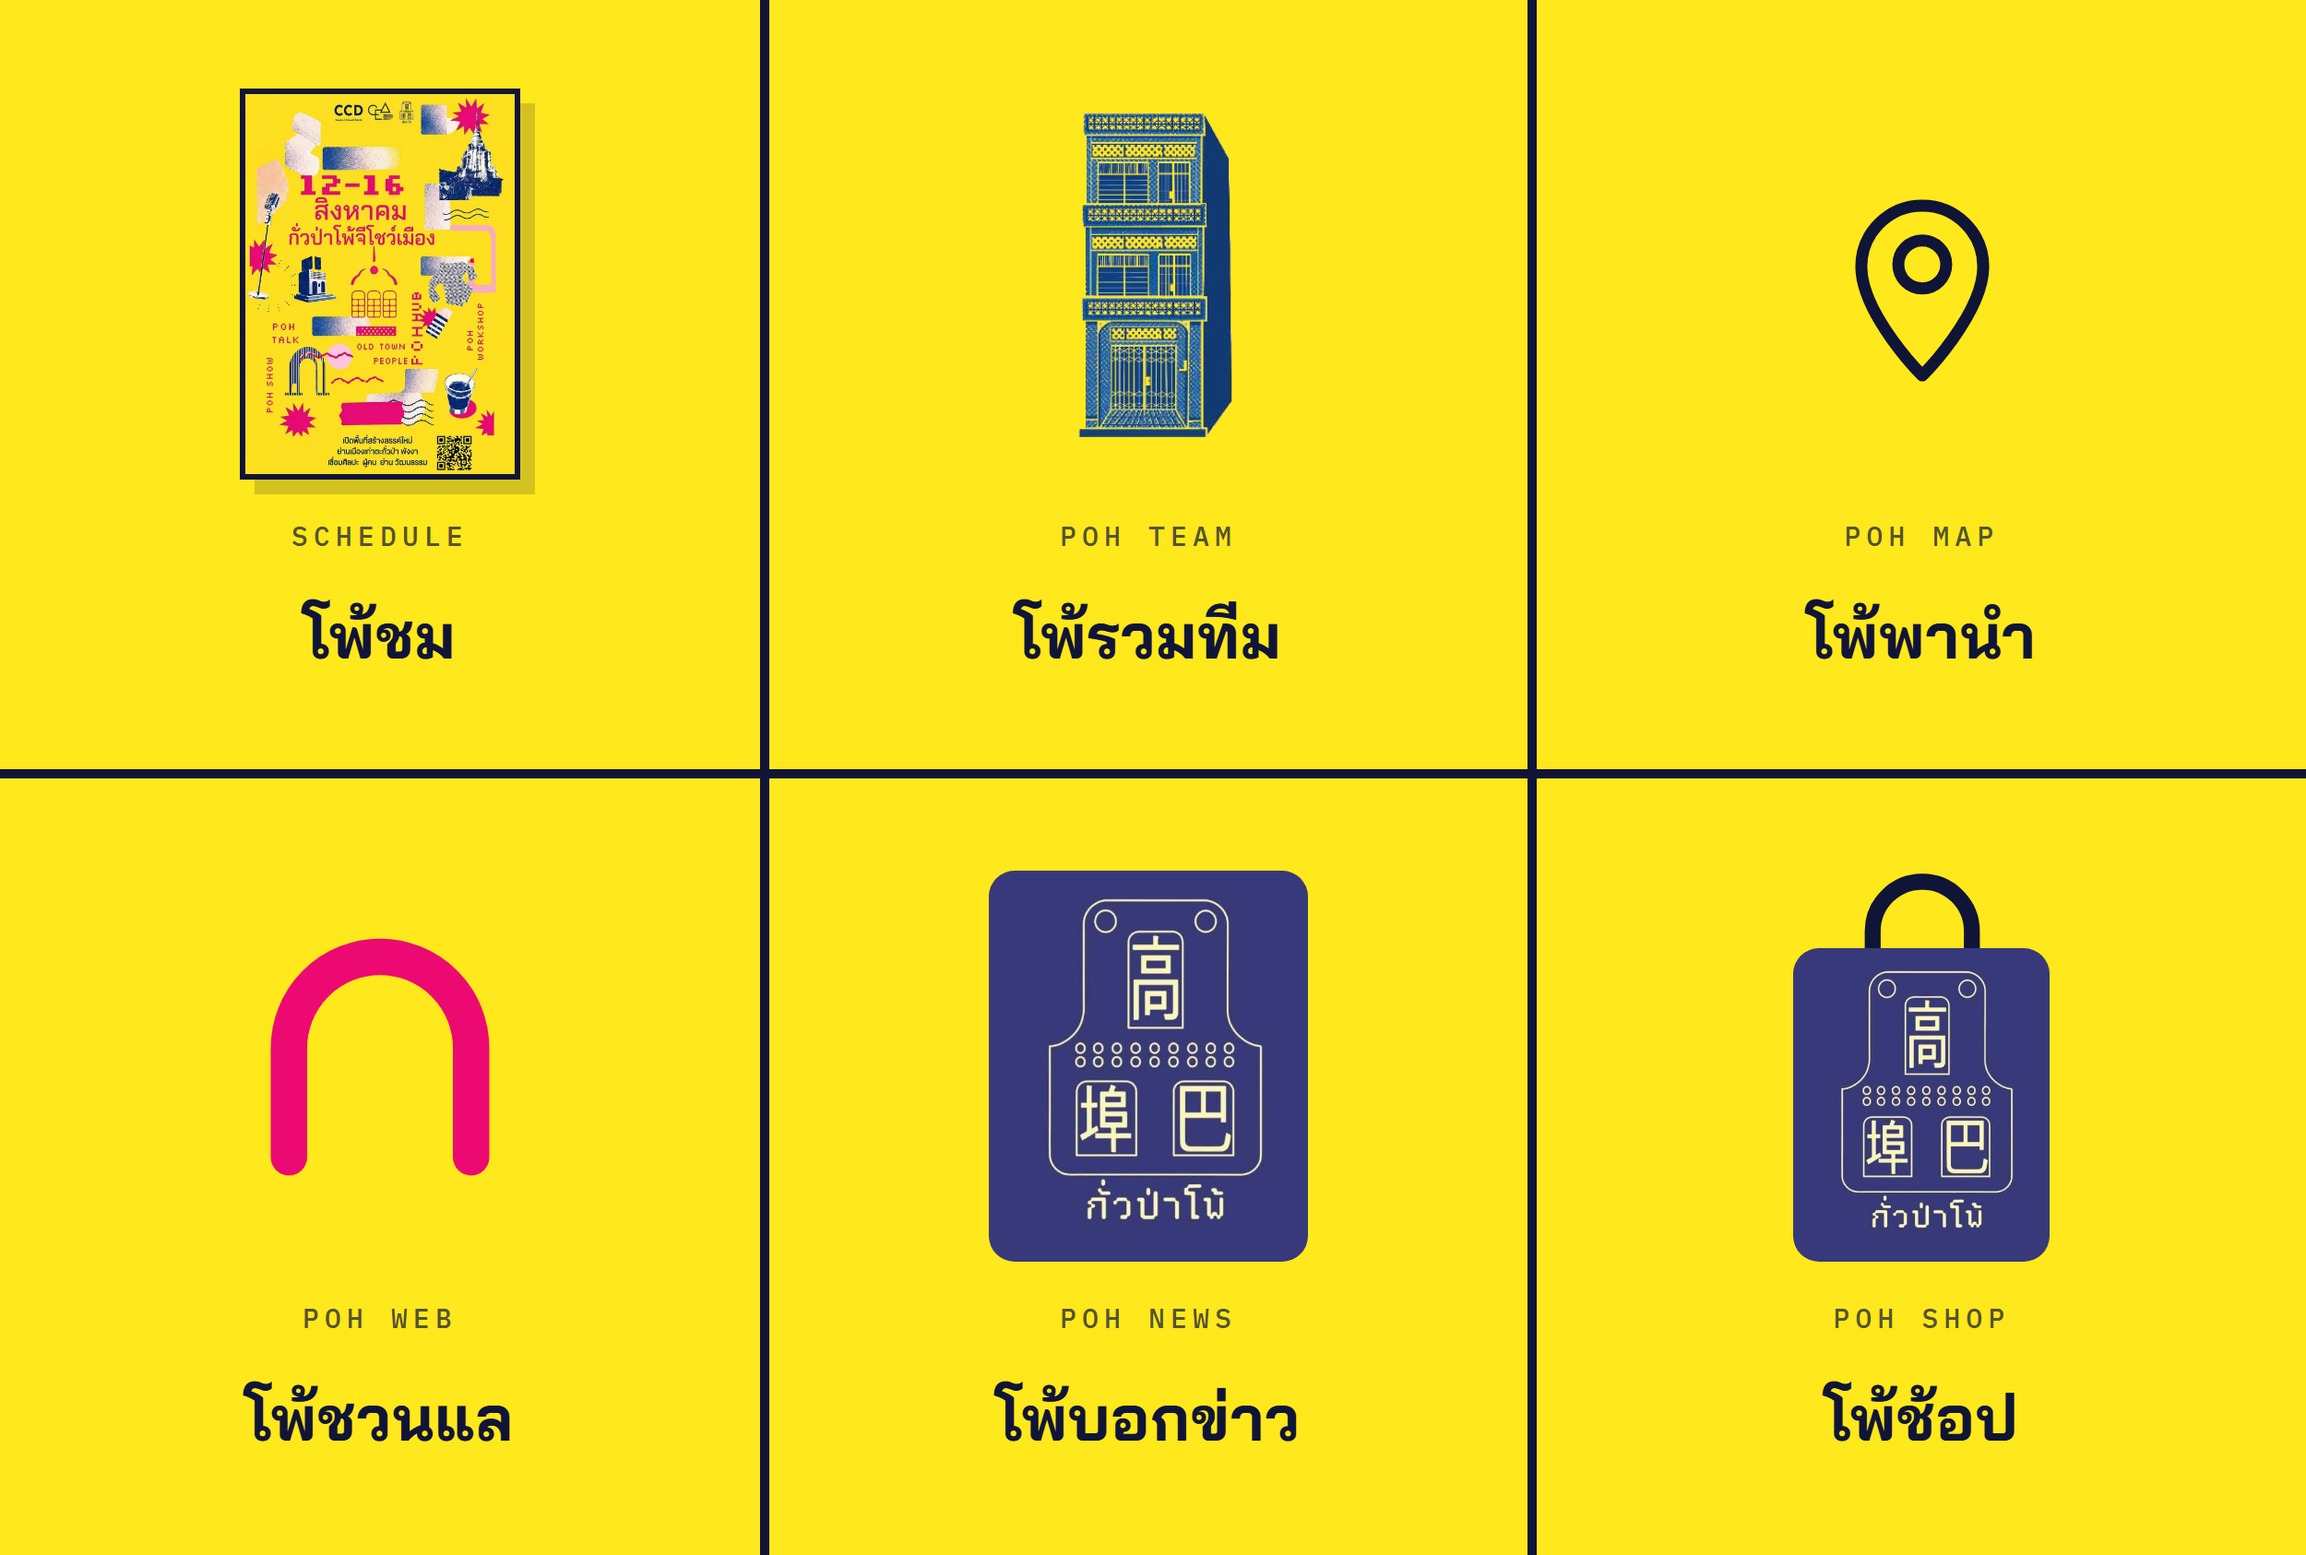
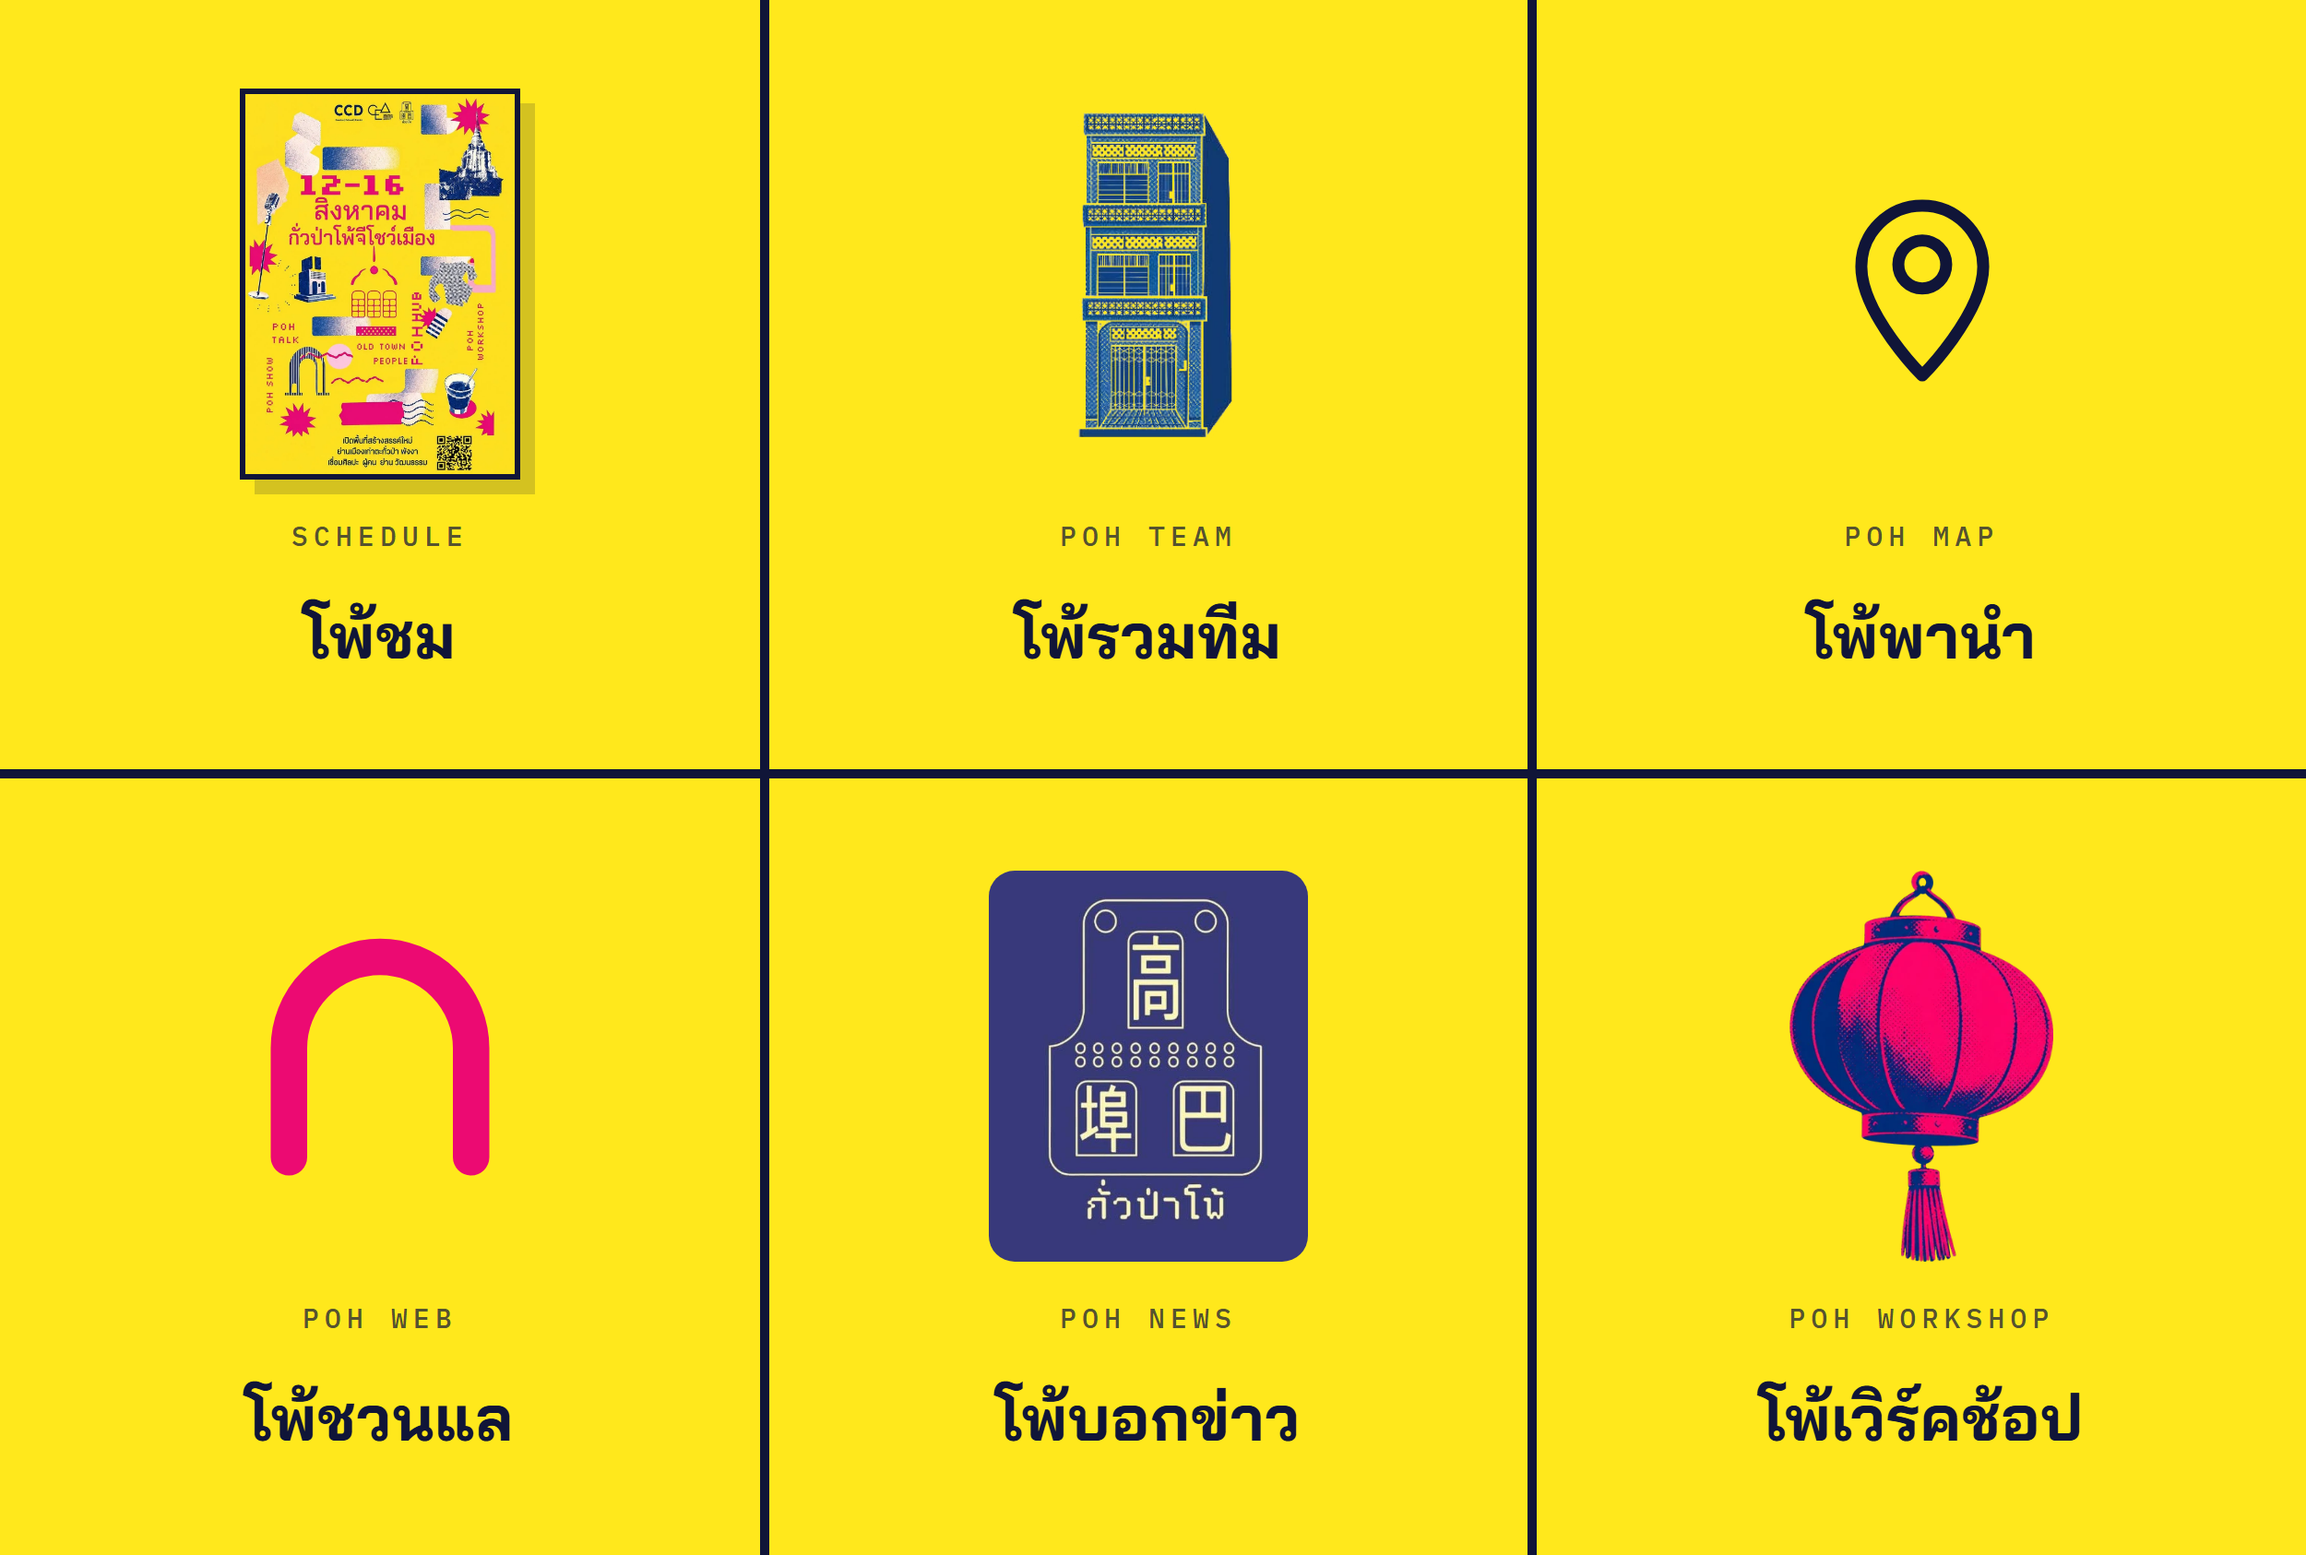
feat(line): ริชเมนูช่อง 6 เปลี่ยนเป็นโพ้เวิร์คช้อป ลิงก์ตรงหน้าลงทะเบียน
- เดิมเป็น "โพ้ช้อป" ที่ส่งข้อความเข้าแชทเฉย ๆ เพราะยังไม่มีลิงก์ร้าน
  ตอนนี้มีของให้กดจริงแล้ว เปลี่ยนเป็นลิงก์ไป kuapapoh.pages.dev/#ws
  ซึ่ง #ws บังคับให้ป๊อปอัปลงทะเบียนเด้งทันที ไม่ต้องรอและไม่สนว่าเคยปิดไปแล้ว
- ไอคอนใช้โคมไฟ riso ชุดเดียวกับป๊อปอัปกับโปสเตอร์ ให้เป็นภาษาเดียวกันทั้งงาน
- deploy ขึ้น OA แล้ว ตั้งเป็นเมนูหลักของทุกคน

Changed region(s): [[0.7488, 0.5552, 0.9048, 0.8636], [0.7488, 0.8944, 0.9048, 0.9253]]

diff --git a/richmenu/a-poster.html b/richmenu/a-poster.html
@@ -15,5 +15,5 @@
 <div class="cell" style="background:#FFE81C;color:#101538"><div class="art"><div class="ico"><svg viewBox="0 0 100 100"><path d="M50 92C50 92 78 64 78 42a28 28 0 1 0-56 0c0 22 28 50 28 50z" stroke="currentColor" fill="none" stroke-width="5.5" stroke-linecap="round" stroke-linejoin="round"/><circle cx="50" cy="41" r="11" stroke="currentColor" fill="none" stroke-width="5.5" stroke-linecap="round" stroke-linejoin="round"/></svg></div></div><div><div class="en">POH MAP</div><div class="th">โพ้พานำ</div></div></div>
 <div class="cell" style="background:#FFE81C;color:#101538"><div class="art"><div class="ico ico-mark"><svg viewBox="0 0 32 32"><path d="M6 26V14a10 10 0 0 1 20 0v12" fill="none" stroke="#EC0A72" stroke-width="4" stroke-linecap="round"/></svg></div></div><div><div class="en">POH WEB</div><div class="th">โพ้ชวนแล</div></div></div>
 <div class="cell" style="background:#FFE81C;color:#101538"><div class="art"><img class="art-tile" src="logo-poh.webp" alt=""></div><div><div class="en">POH NEWS</div><div class="th">โพ้บอกข่าว</div></div></div>
-<div class="cell" style="background:#FFE81C;color:#101538"><div class="art"><div class="shop"><svg class="handle" viewBox="0 0 100 62"><path d="M22 62V34a28 28 0 0 1 56 0v28" fill="none" stroke="#101538" stroke-width="9" stroke-linecap="round"/></svg><img src="logo-poh.webp" alt=""></div></div><div><div class="en">POH SHOP</div><div class="th">โพ้ช้อป</div></div></div>
+<div class="cell" style="background:#FFE81C;color:#101538"><div class="art"><img class="art-line" src="../images/ws/ws-lantern.webp" alt=""></div><div><div class="en">POH WORKSHOP</div><div class="th">โพ้เวิร์คช้อป</div></div></div>
 </body></html>

diff --git a/richmenu/deploy.py b/richmenu/deploy.py
@@ -34,8 +34,8 @@ ACTIONS = [
     ("โพ้พานำ", {"type": "uri", "uri": MAPS}),
     ("โพ้ชวนแล", {"type": "uri", "uri": f"{SITE}/"}),
     ("โพ้บอกข่าว", {"type": "uri", "uri": FB}),
-    # ยังไม่มีลิงก์ร้าน · ให้ส่งข้อความเข้าแชทไปก่อน แอดมินตอบเองใน OA Manager
-    ("โพ้ช้อป", {"type": "message", "text": "สนใจโพ้ช้อป"}),
+    # #ws บังคับให้ป๊อปอัปลงทะเบียนเด้งทันที ไม่ต้องรอ และไม่สนว่าเคยกดปิดไปแล้ว
+    ("โพ้เวิร์คช้อป", {"type": "uri", "uri": f"{SITE}/#ws"}),
 ]
 
 areas = []
